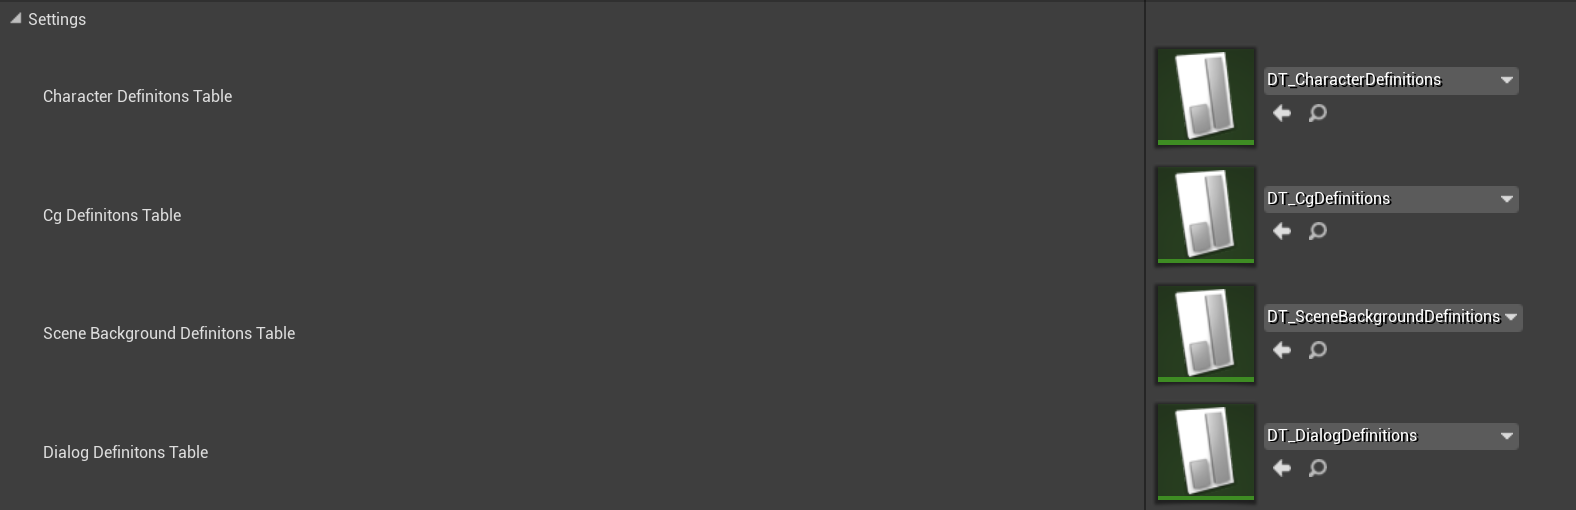
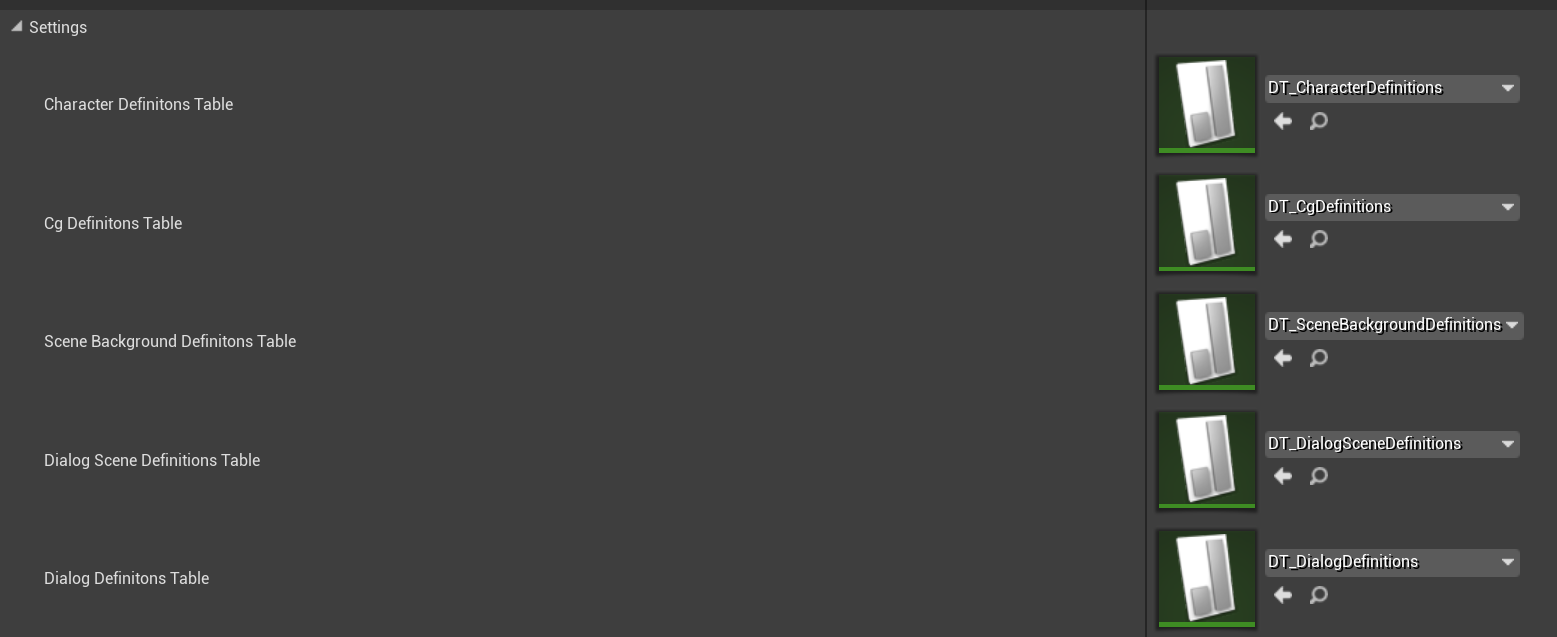
updated project setup to include new features

diff --git a/get-started/project-setup/setup-data-tables.md b/get-started/project-setup/setup-data-tables.md
@@ -12,6 +12,8 @@ nav_order: 2
     - DialogDefinition (Named DT_DialogDefinitions for future reference)
     - DialogImageDefinition (Named DT_CgDefinitions for future reference)
     - DialogImageDefinition (Named DT_SceneBackgroundDefinitions for future reference)
+    - DialogSceneDefinition (Named DT_DialogSceneDefinitions for future reference)
+    - RichTextStyleRow (Named DT_DialogTextStyles for future reference)
     
     ![Table Definition Picker]({{ site.baseurl }}/assets/images/DataTableSetup/TableDefinitionPicker.png)
     
@@ -22,6 +24,7 @@ nav_order: 2
     - DialogDefinitonsTable to DT_DialogDefinitions
     - CgDefinitonsTable to DT_CgDefinitions
     - SceneBackgroundDefinitonsTable to DT_SceneBackgroundDefinitions
+    - DialogSceneDefinitionsTable to DT_DialogSceneDefinitions
     
     ![Data Table Project Settings]({{ site.baseurl }}/assets/images/DataTableSetup/DataTableProjectSettings.png)
 
@@ -36,5 +39,12 @@ If you intend to display CGs in your visual novel, this data table will hold the
 
 ## DT_SceneBackgroundDefinitions
 If you intend to display images in the background during scenes in your visual novel, this data table will hold the information about each of them, specifically which image to display. More details on scene backgrounds can be found [here]({{ site.baseurl }}{% link features/scene-backgrounds.md %}).
+
+## DT_DialogSceneDefinitions
+If you intend to display 3d scenes during dialogs in your visual novel, this data table will hold the information about each of them, specifically which 3d scene to display. More details on Dialog Scenes can be found [here]({{ site.baseurl }}{% link features/dialog-scenes.md %}).
+
+## DT_DialogTextStyles
+This data table is needed for customizing the dialog text displayed at runtime. More details on dialog texts can be found [here]({{ site.baseurl }}{% link features/Dialogs.md %}).
+
 
 After having set up the data tables, we can now move on to [setting up the dialog UI]({{ site.baseurl }}{% link get-started/project-setup/setup-dialog-box-ui.md %}).

diff --git a/get-started/project-setup/setup-dialog-box-ui.md b/get-started/project-setup/setup-dialog-box-ui.md
@@ -13,10 +13,15 @@ nav_order: 3
 2. Create a blueprint class that is based on BaseDialogBoxWidget and call it W_DialogBoxWidget.
     1. Open the widget
     2. Design the widget however you like
-        - Add a text block to the widget named DialogText
-        - Add a text block to the widget named CharacterNameText
+        - Add a rich text block to the widget named DialogText
+            - Set its text style set to DT_DialogTextStyles
+        - Add a rich text block to the widget named CharacterNameText
+            - Set its text style set to DT_DialogTextStyles
         
         ![Dialog Box UI Design]({{ site.baseurl }}/assets/images/DialogBoxSetup/DialogBoxDesign.png)
+    3. Add a row called "Default" to DT_DialogTextStyles and customize it to your liking. This will be how your dialog text gets displayed without any tags.
+        
+        ![Dialog Text Default Row]({{ site.baseurl }}/assets/images/DialogBoxSetup/DialogTextCustomizationDefault.png)
 3. Create a blueprint class that is based on BaseChoiceButton and call it W_ChoiceButton.
     1. Open the widget
     2. Design the widget however you like
